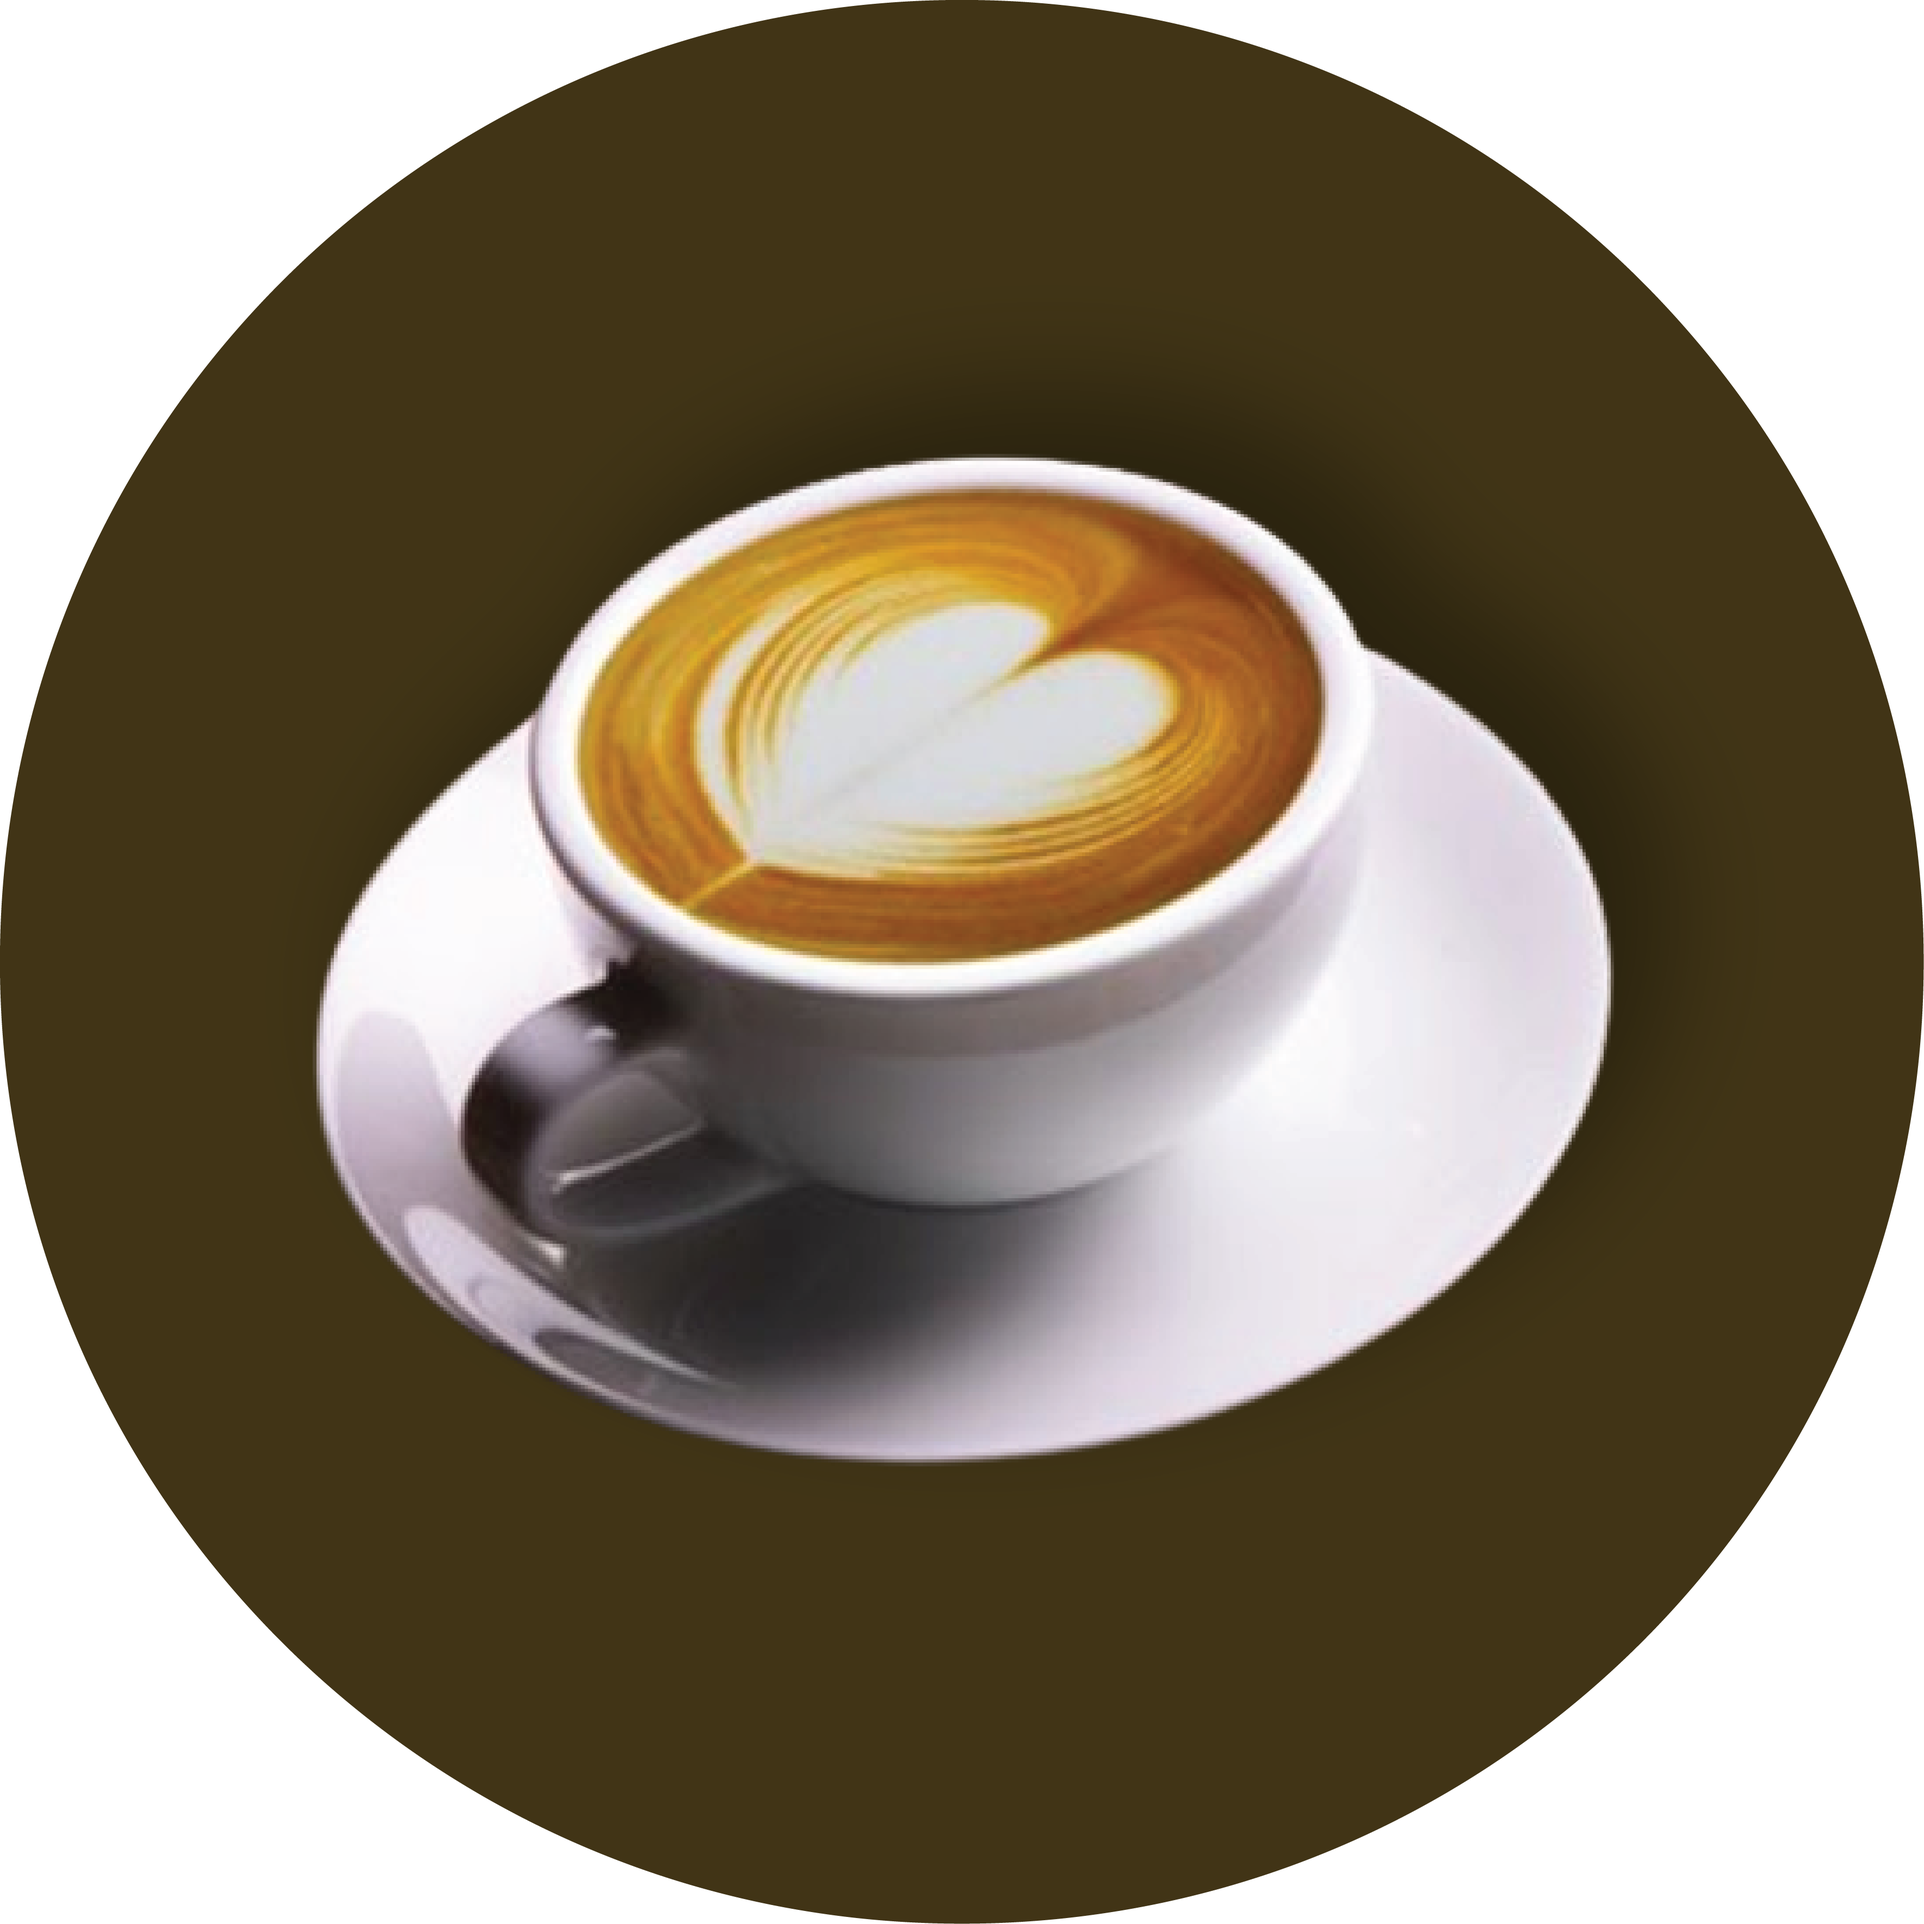
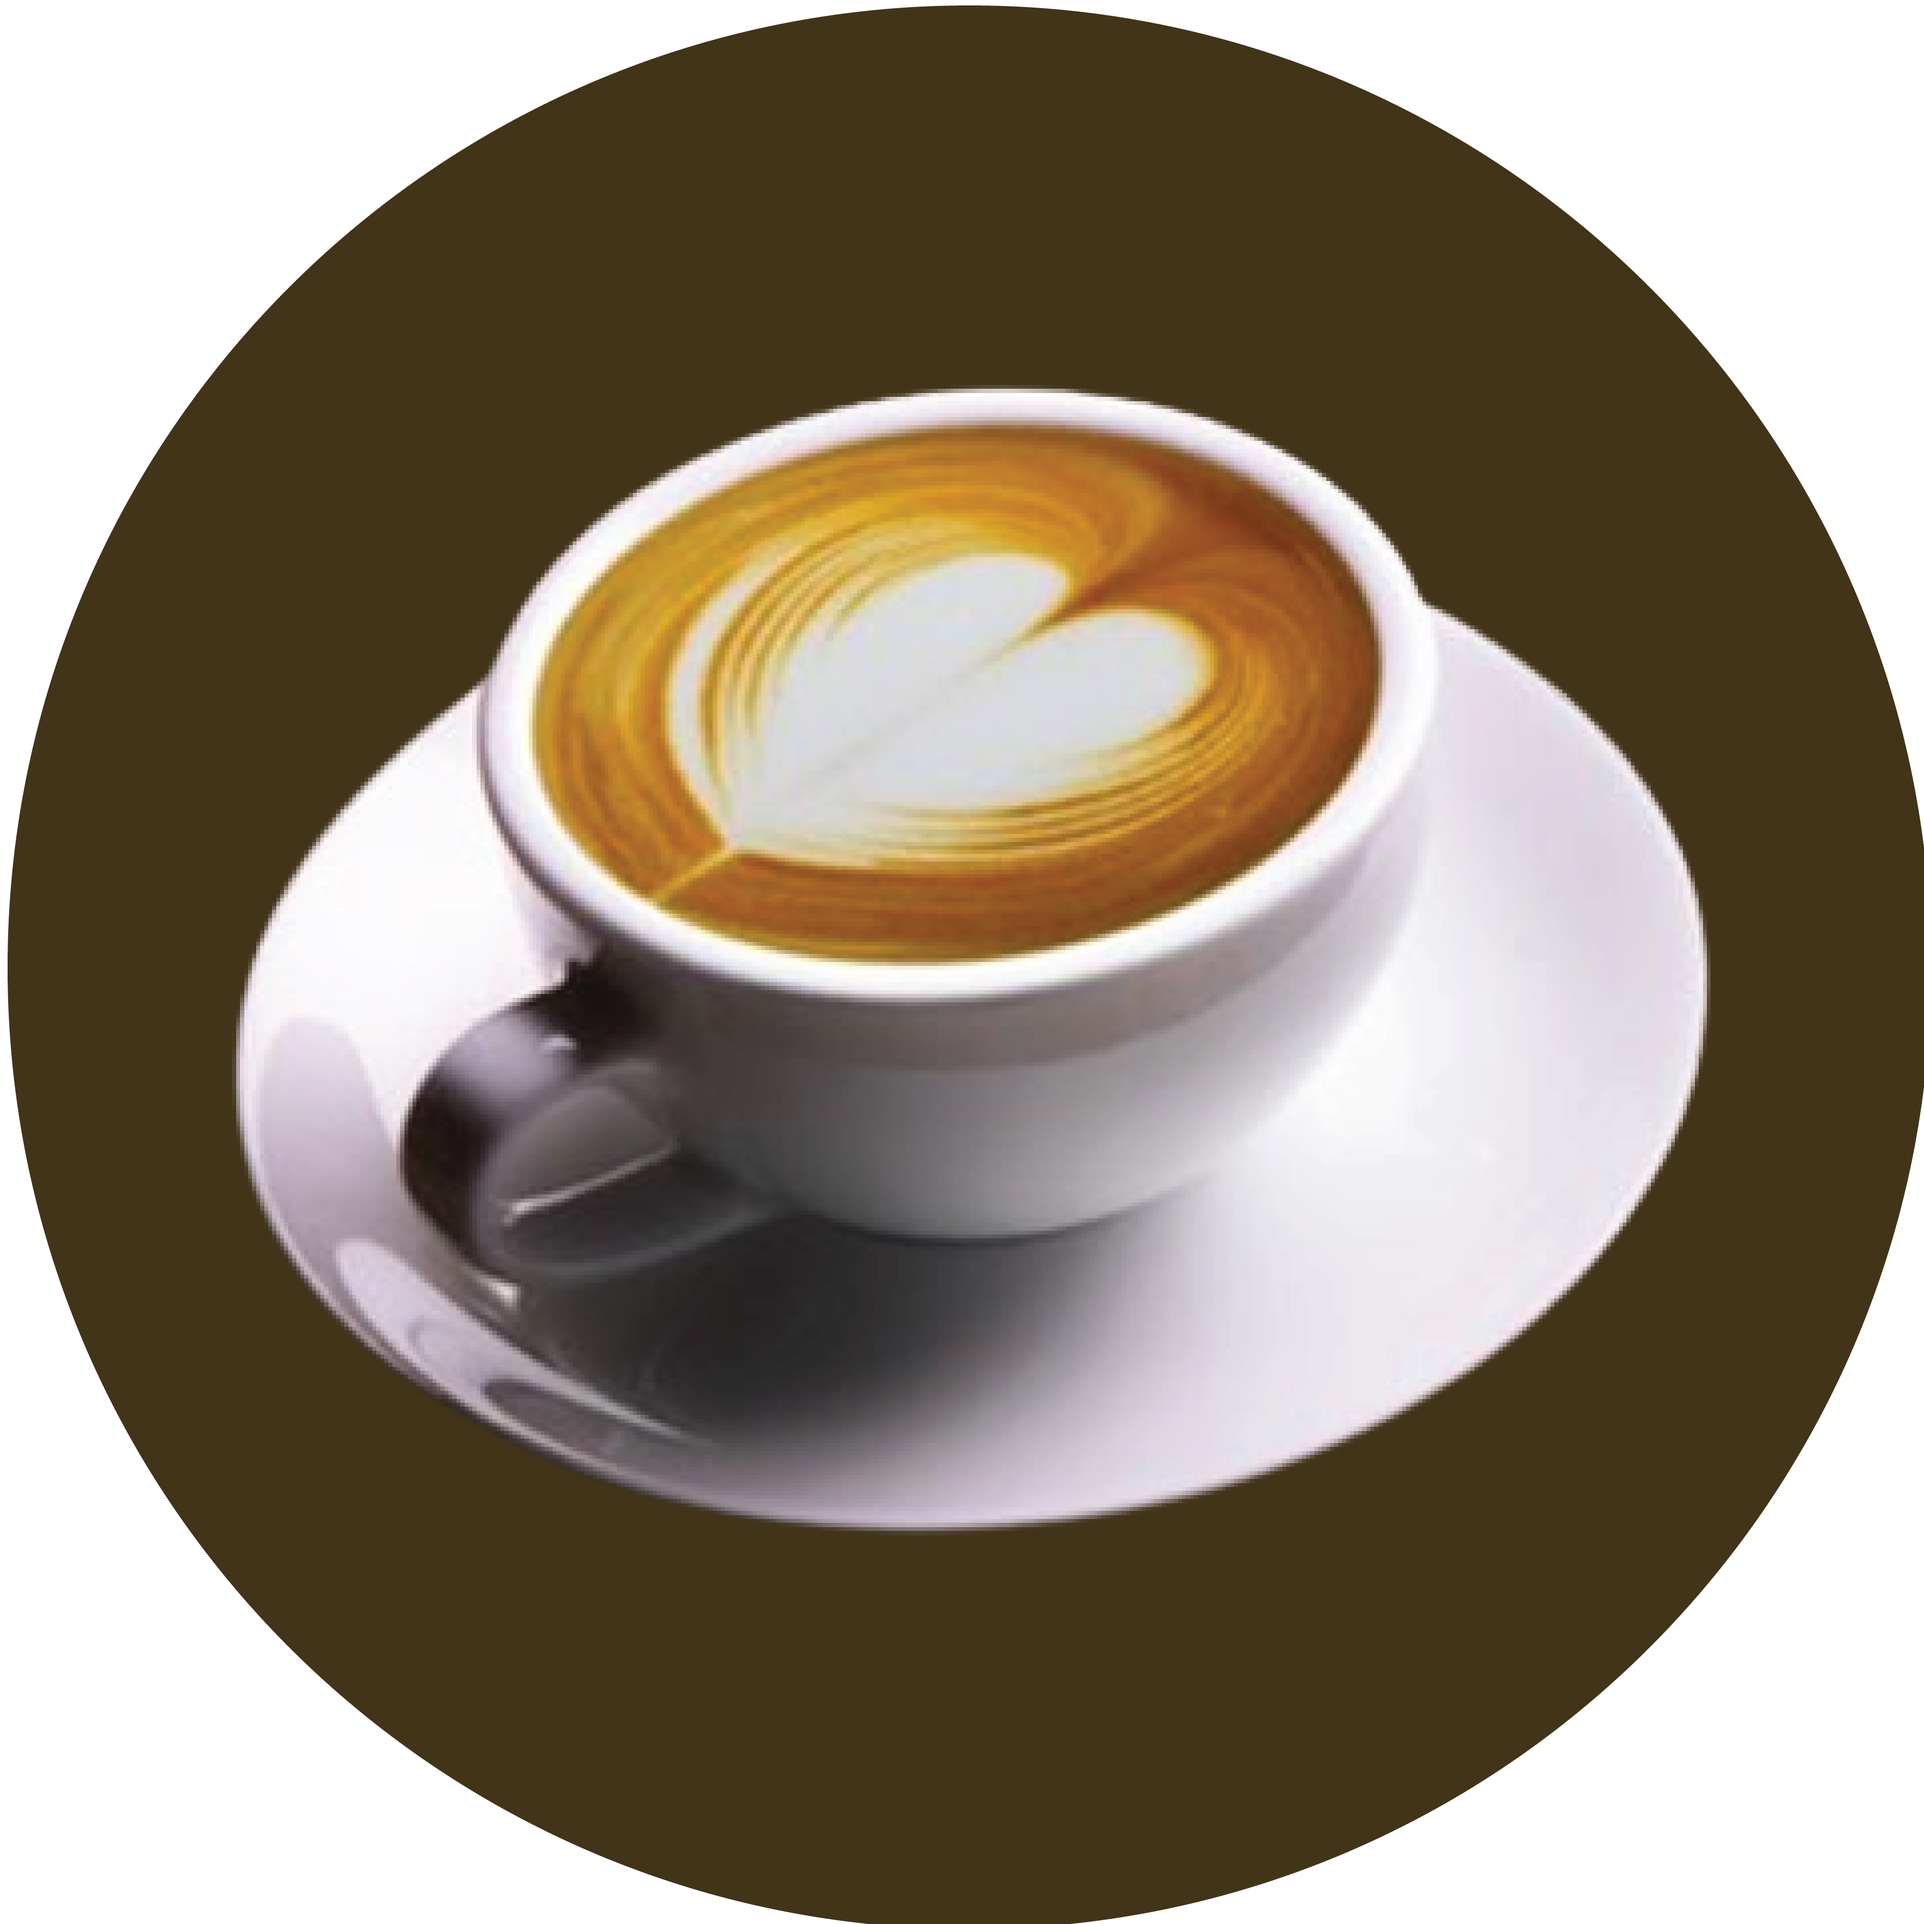
Button Animation & Pictures clickable

diff --git a/index.html b/index.html
@@ -5,6 +5,7 @@
     <meta name="viewport" content="width=device-width, initial-scale=1.0">
     <title>CoffeeBean</title>
     <link rel="stylesheet" href=".//Ressources/style.css">
+    <link rel="stylesheet" href=".//Ressources/script.js">
 
     <link rel="preconnect" href="https://fonts.googleapis.com">
     <link rel="preconnect" href="https://fonts.gstatic.com" crossorigin>
@@ -66,26 +67,29 @@
 
         <div class="our-coffees">
             <div class="coffee-block">
-                <img class="coffees-pictures" src=".//Ressources/Pictures/Coffees-Espresso.png" alt="Espresso">
+                <img id="img-espresso" class="coffees-pictures" src=".//Ressources/Pictures/Coffees-Espresso.png" alt="Espresso">
                 <span>Espresso</span>
             </div>
 
-            <div class="coffee-block">
+            <div id="img-capuccino" class="coffee-block">
                 <img class="coffees-pictures" src=".//Ressources/Pictures/Coffees-capuccino.png" alt="Capuccino">
                 <span>Capuccino</span>
             </div>
 
-            <div class="coffee-block">
+            <div id="img-latte" class="coffee-block">
                 <img class="coffees-pictures" src=".//Ressources/Pictures/Coffees-Latte.png" alt="Coffee Latte">
                 <span>Latte</span>
             </div>
 
-            <div class="coffee-block">
+            <div id="img-mocha" class="coffee-block">
                 <img class="coffees-pictures" src=".//Ressources/Pictures/Coffees-Moka.png" alt="Mocha">
                 <span>Mocha</span>
             </div>
         </div>
      </div>
+
+     <script src="script.js" defer></script>
+
 
      <!-- Section 4 -->
 

diff --git a/Ressources/style.css b/Ressources/style.css
@@ -117,6 +117,21 @@ nav a {
     width: 200px;
     height: 60px;
     margin-top: 3.125rem;
+    transition: all 0.3s ease-in-out;
+}
+
+.hero-section button:hover {
+    cursor: pointer;
+    line-height: 1.5625rem;
+    background-color: transparent;
+    color: #EAE6DB ;
+    font-size: 1.125rem;
+    border-radius: 5px;
+    border-color: #EAE6DB;
+    border-width: 2px;
+    width: 200px;
+    height: 60px;
+    margin-top: 3.125rem;
 }
 
 /* Section 2 */
@@ -187,9 +202,13 @@ nav a {
 }
 
 .coffees-pictures {
-    max-width: 268px;
+    width: 250px;
     height: auto;
     margin: 0;
+}
+
+.coffees-pictures:hover {
+    cursor: pointer;
 }
 
 span {
@@ -234,6 +253,20 @@ span {
     border-color: transparent;
     width: 200px;
     height: 60px;
+    transition: all 0.3s ease-in-out;
+}
+
+.text-box-section-4 button:hover {
+    cursor: pointer;
+    line-height: 1.5625rem;
+    background-color: transparent;
+    color: #EAE6DB ;
+    font-size: 1.125rem;
+    border-radius: 5px;
+    border-color: #EAE6DB;
+    border-width: 2px;
+    width: 200px;
+    height: 60px;
 }
 
 .section-4 img {
@@ -273,6 +306,20 @@ span {
     font-size: 1.125rem;
     border-radius: 5px;
     border-color: transparent;
+    width: 200px;
+    height: 60px;
+    transition: all 0.3s ease-in-out;
+}
+
+.text-box-section-5 button:hover {
+    cursor: pointer;
+    line-height: 1.5625rem;
+    background-color: transparent;
+    color: #41330C ;
+    font-size: 1.125rem;
+    border-radius: 5px;
+    border-color: #41330C;
+    border-width: 2px;
     width: 200px;
     height: 60px;
 }

diff --git a/script.js b/script.js
@@ -1,0 +1,27 @@
+
+
+/* --- Change Coffee images --- */
+
+document.addEventListener("DOMContentLoaded", () => {
+    // Select all images in the 'our-coffees' section
+    const coffeeImages = document.querySelectorAll(".coffees-pictures");
+
+    // Add click event listener to each image
+    coffeeImages.forEach((image) => {
+        image.addEventListener("click", () => {
+            // Get the current `src` of the image
+            const currentSrc = image.src;
+
+            // Check if the image is already "clicked"
+            if (currentSrc.includes("CLICKED")) {
+                // Replace '.CLICKED.png' with '.png' to revert to the original image
+                image.src = currentSrc.replace(".CLICKED.png", ".png");
+            } else {
+                // Add '.CLICKED' before the file extension to switch to clicked image
+                image.src = currentSrc.replace(".png", ".CLICKED.png");
+            }
+        });
+    });
+});
+
+
